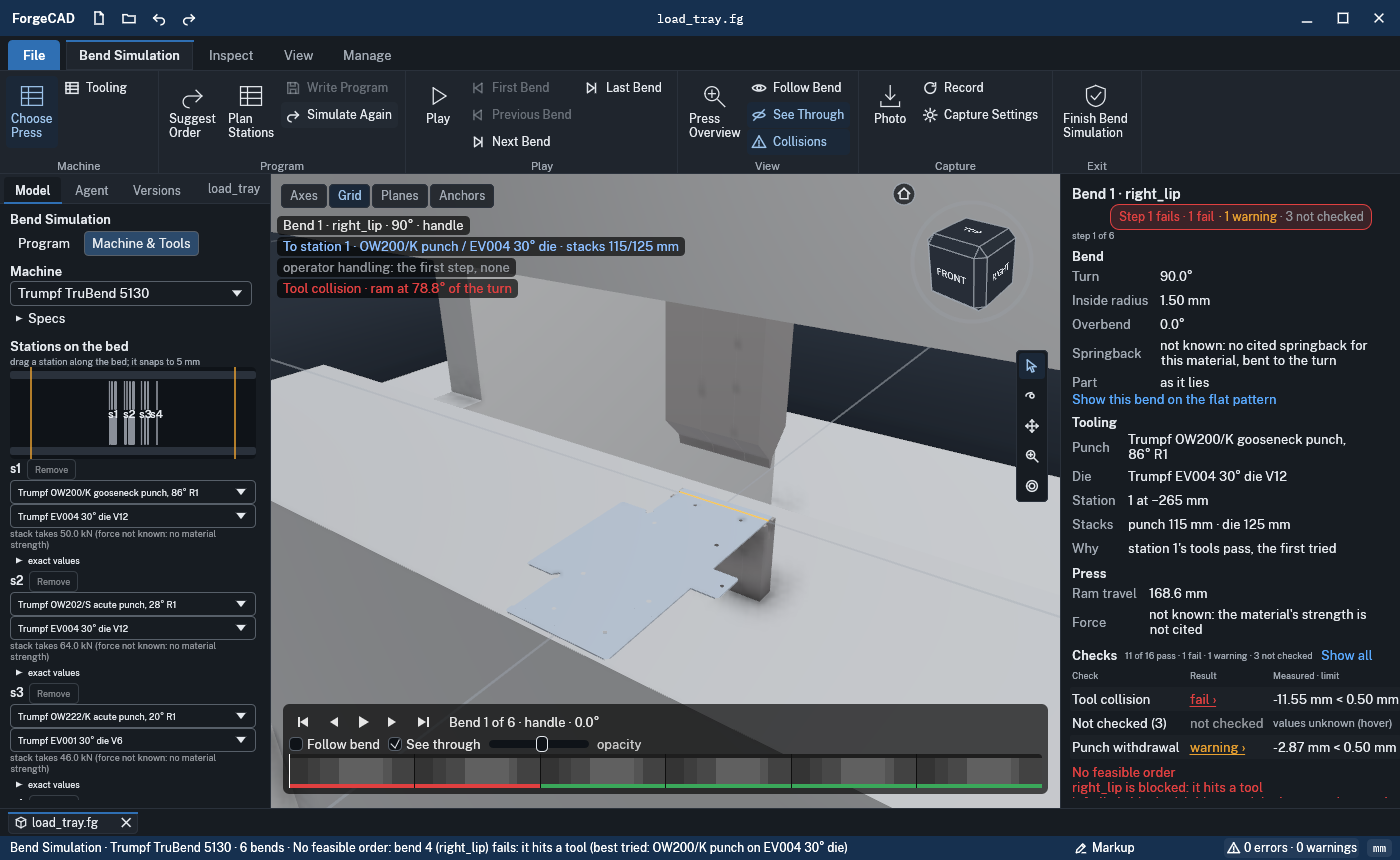
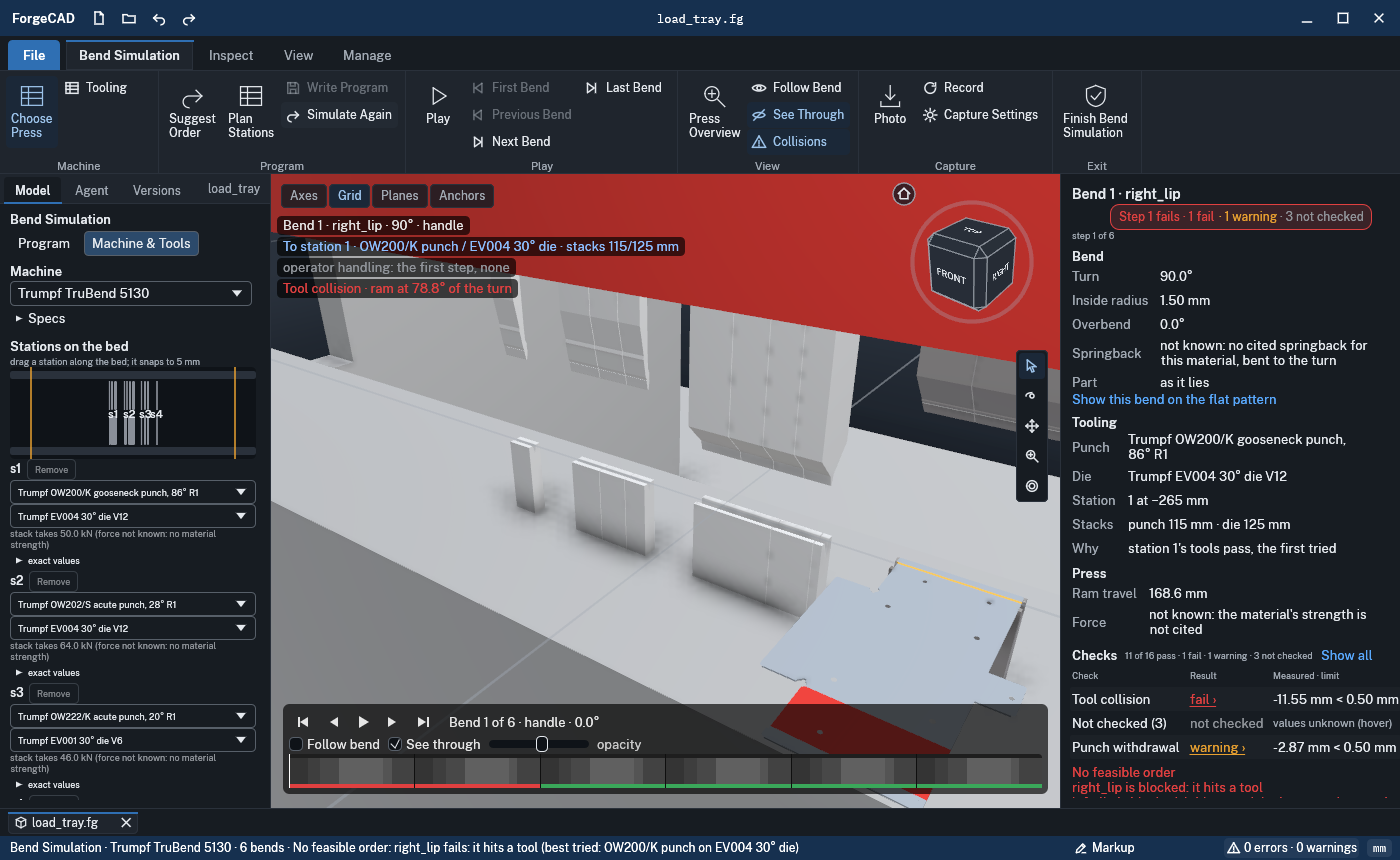
bendsim: a failure said once per tool, by its title (the key on hover); a stand-in tool named in words; shots re-taken
UX-LEAD on a2079733: the caption listed "Tool collision · std-eu/V16-88" twice (the die's two
checks) and by its key; each failing rule and tool is one line now, by the tool's title, its key on
the line's hover. A tool the library has no record of (std-eu's stand-ins) is titled from its key
in words ("V16-88 die"), in the panel too. The pickers' shot is re-taken after the status-line fix
("right_lip fails: ...").

Claude-Session: https://claude.ai/code/session_01WJtawvw7eU93rVnY2Eejbc

diff --git a/interface/forge-render/src/shell/bendsim.rs b/interface/forge-render/src/shell/bendsim.rs
@@ -2609,21 +2609,30 @@ pub fn overlay(ui: &egui::Ui, rect: egui::Rect, st: &mut BendSimUi) {
                 None => ("operator handling: the first step, none".into(), look::MUTED),
             });
         }
+        // one line per tool met, by its title (the key on hover; UX-LEAD): a rule failing twice
+        // on the same tool is one line
         for c in s.failures() {
-            lines.push((
-                format!(
-                    "{}{}{}",
-                    cards::rule_label(c.rule),
-                    c.tool
-                        .as_deref()
-                        .map_or(String::new(), |t| format!(" · {}", cards::body_words(cat, t))),
-                    c.phi.map_or(String::new(), |f| format!(
-                        " at {:.1}° of the turn",
-                        f.to_degrees()
-                    ))
-                ),
-                look::FAIL,
-            ));
+            let line = format!(
+                "{}{}{}",
+                cards::rule_label(c.rule),
+                c.tool
+                    .as_deref()
+                    .map_or(String::new(), |t| format!(" · {}", cards::body_words(cat, t))),
+                c.phi.map_or(String::new(), |f| format!(
+                    " at {:.1}° of the turn",
+                    f.to_degrees()
+                ))
+            );
+            let same = |l: &str| {
+                l.split(" at ").next() == line.split(" at ").next()
+            };
+            if lines.iter().any(|(l, _): &(String, egui::Color32)| same(l)) {
+                continue;
+            }
+            if let Some(t) = &c.tool {
+                hovers.push((lines.len(), t.clone()));
+            }
+            lines.push((line, look::FAIL));
         }
     }
     // on a backing plate (the view chips' style), wrapped short of the view cube's corner, so

diff --git a/interface/forge-render/src/shell/bendsim_cards.rs b/interface/forge-render/src/shell/bendsim_cards.rs
@@ -54,7 +54,8 @@ pub fn tool_title(cat: Option<&fb::catalog::Catalog>, id: &str, punch: bool) -> 
             c.dies.iter().find(|r| r.id == id).map(die_title)
         }
     });
-    found.unwrap_or_else(|| id.to_string())
+    // a tool the library has no record of (a stand-in set's): its key in words, as tool_short
+    found.unwrap_or_else(|| tool_short(cat, id, punch))
 }
 
 /// A tool's short name, the library's own designation (UX-LEAD: one name per tool, the same as
